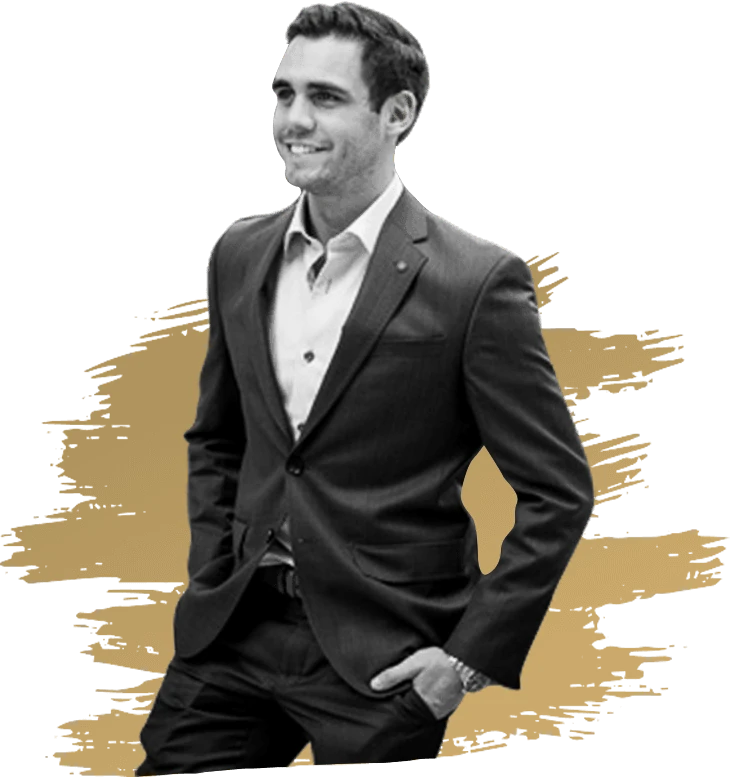
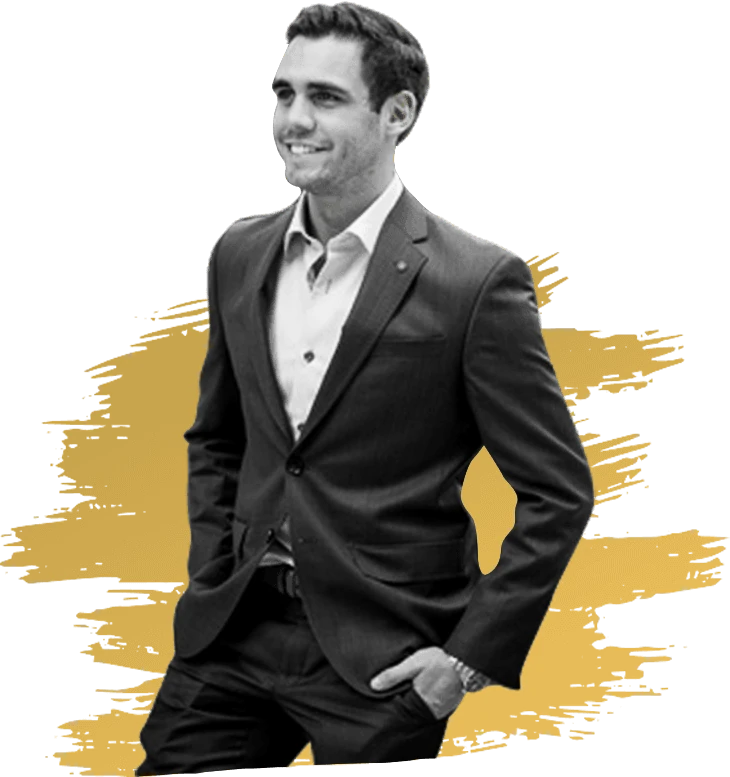
Flatten gold, brighten paper and gold, add a separate signal colour token
Removes the metallic gradients, moves the light sections to a near-white
paper, uses a cleaner gold on screen, and routes the announcement strip
and primary buttons through --color-signal (gold until an accent is chosen).

Claude-Session: https://claude.ai/code/session_01MrJZnTWZ3xpZ6LwmfcK68F

diff --git a/app/hallmark.css b/app/hallmark.css
@@ -1,5 +1,5 @@
 /* Hallmark · shape: Index-First · genre: editorial · theme: brand · redesign: full · job: attend, the free webinar in the announcement and the hero
- * paper: oklch(96.8% 0.009 85) · accent: oklch(74% 0.087 82) · display: League Spartan · body: Figtree · hero: Stage (/) · nav: slab · footer: mast · signature: Luis cut out on the black field against a gold brush, standing on the lesson topics
+ * paper: oklch(98.6% 0.004 85) · accent: oklch(80% 0.125 86) · display: League Spartan · body: Figtree · hero: Stage (/) · nav: slab · footer: mast · signature: Luis cut out on the black field against a gold brush, standing on the lesson topics
  * axes: ivory and black/heavy uppercase grotesk/muted gold · posture: committed, black field with one gold band · contrast: pass · fold: pass · v2.0.0 */
 /* Hallmark · pre-emit critique: P4 H4 E4 S4 R3 V4 · weakest: R, the gold wanted to be everywhere; kept it to the announcement, the primary action, the brush and one closing band */
 /* Hallmark · reworded "put modern tools—including AI and automation—to work" to "put modern tools, including AI and automation, to work" · 19 names the dashes */
@@ -21,13 +21,13 @@
 @import url("./base.css");
 
 /* Controls */
-.hm-btn { display: inline-flex; align-items: center; justify-content: center; gap: var(--space-xs); min-height: 52px; padding: 0 var(--space-xl); border: 1px solid var(--color-accent); border-radius: var(--radius-pill); background: linear-gradient(180deg, var(--color-accent-2), var(--color-accent)); color: var(--color-accent-ink); font: 800 var(--text-md)/1 var(--font-body); letter-spacing: 0.03em; text-transform: uppercase; white-space: nowrap; cursor: pointer; transition: background-color var(--dur-short) var(--ease-out), border-color var(--dur-short) var(--ease-out), color var(--dur-short) var(--ease-out), transform var(--dur-micro) var(--ease-out); }
-.hm-btn:hover { background: var(--color-accent-2); border-color: var(--color-accent-2); }
+.hm-btn { display: inline-flex; align-items: center; justify-content: center; gap: var(--space-xs); min-height: 52px; padding: 0 var(--space-xl); border: 1px solid var(--color-signal); border-radius: var(--radius-pill); background: var(--color-signal); color: var(--color-signal-ink); font: 800 var(--text-md)/1 var(--font-body); letter-spacing: 0.03em; text-transform: uppercase; white-space: nowrap; cursor: pointer; transition: background-color var(--dur-short) var(--ease-out), border-color var(--dur-short) var(--ease-out), color var(--dur-short) var(--ease-out), transform var(--dur-micro) var(--ease-out); }
+.hm-btn:hover { background: var(--color-signal-2); border-color: var(--color-signal-2); }
 .hm-btn:active { transform: translateY(1px); }
 .hm-btn:focus-visible { outline: 2px solid var(--color-focus); outline-offset: 3px; }
 .hm-btn[aria-disabled="true"] { opacity: 0.55; cursor: not-allowed; transform: none; }
 .hm-btn--line { background: transparent; color: var(--color-ink); border-color: var(--color-accent-deep); }
-.hm-btn--line:hover { background: var(--color-accent); border-color: var(--color-accent); color: var(--color-accent-ink); }
+.hm-btn--line:hover { background: var(--color-signal); border-color: var(--color-signal); color: var(--color-signal-ink); }
 .hm-btn--ink { background: var(--color-night); border-color: var(--color-night); color: var(--color-on-night); }
 .hm-btn--ink:hover { background: var(--color-night-3); border-color: var(--color-night-3); }
 .hm-link { display: inline-block; font-weight: 600; text-decoration: underline; text-decoration-color: var(--color-accent-deep); text-decoration-thickness: 2px; text-underline-offset: 0.4em; transition: text-decoration-color var(--dur-short) var(--ease-out); }
@@ -54,14 +54,14 @@
 }
 
 /* The announcement */
-.hm-announce { background: linear-gradient(90deg, var(--color-accent), var(--color-accent-2) 50%, var(--color-accent)); text-align: center; }
+.hm-announce { text-align: center; }
 .hm-announce a { display: block; padding-block: var(--space-sm); line-height: 1.3; text-decoration: underline; text-decoration-color: transparent; text-underline-offset: 0.3em; transition: text-decoration-color var(--dur-short) var(--ease-out); }
 .hm .hm-announce a:hover { text-decoration: underline; text-decoration-color: var(--color-ink); }
 .hm-announce strong { font-weight: 800; }
 
 /* Hero: Stage */
 .hm-home { background: var(--color-paper); color: var(--color-ink); }
-.hm-hero { background: linear-gradient(180deg, var(--color-night-2), var(--color-night) 62%); }
+.hm-hero { background: var(--color-night); }
 .hm-hero-grid { display: grid; grid-template-columns: minmax(0, 7fr) minmax(0, 5fr); grid-template-rows: minmax(0, 1fr); column-gap: var(--space-2xl); align-items: center; height: clamp(500px, calc(100dvh - 248px), 700px); }
 .hm-hero-copy { display: grid; gap: var(--space-lg); justify-items: start; padding-block: var(--space-xl); }
 .hm-hero-copy .hm-lead { max-width: 46ch; }
@@ -77,7 +77,7 @@
 .hm-topics-row { display: grid; grid-template-columns: minmax(0, 1.25fr) repeat(6, minmax(0, 1fr)); align-items: stretch; }
 .hm-topics-row > span { align-self: center; max-width: 16ch; font-size: var(--text-sm); line-height: 1.35; color: var(--color-ink-2); }
 .hm-topics-row > a { display: flex; align-items: center; min-height: 96px; padding: var(--space-md); border-left: var(--rule-hair) solid var(--color-accent-deep); white-space: nowrap; font: 800 clamp(0.875rem, 1.15vw, 1.0625rem)/1.05 var(--font-display); text-transform: uppercase; color: var(--color-ink); transition: background-color var(--dur-short) var(--ease-out), color var(--dur-short) var(--ease-out); }
-.hm-topics-row > a:hover { background: var(--color-night-3); color: var(--color-accent); }
+.hm-topics-row > a:hover { background: var(--color-night-3); color: var(--color-signal); }
 
 /* Sections */
 .hm-section { padding-block: var(--section-gap); }
@@ -95,7 +95,7 @@
 .hm-rows .hm-link { justify-self: end; text-align: right; }
 
 /* The lesson: a black band */
-.hm-lesson { background: linear-gradient(180deg, var(--color-night), var(--color-night-2)); }
+.hm-lesson { background: var(--color-night); }
 .hm-lesson-grid { display: grid; grid-template-columns: minmax(0, 8fr) minmax(0, 4fr); column-gap: var(--space-2xl); row-gap: var(--space-xl); align-items: center; }
 .hm-lesson-video .video-frame { border-radius: var(--radius-card); overflow: hidden; outline: var(--rule-hair) solid var(--color-rule); }
 .hm-lesson-video .video-shade { display: none; }
@@ -109,7 +109,7 @@
 .hm-guides { background: var(--color-paper-2); }
 .hm-guides-grid { display: grid; grid-template-columns: minmax(0, 5fr) minmax(0, 7fr); column-gap: var(--space-3xl); row-gap: var(--space-2xl); align-items: center; }
 .hm-guide-cover { position: relative; display: grid; justify-items: center; gap: var(--space-lg); padding-block: var(--space-xl); isolation: isolate; }
-.hm-guide-cover::before { content: ""; position: absolute; z-index: -1; top: 50%; left: 50%; width: min(88%, 480px); aspect-ratio: 1; border-radius: 50%; background: linear-gradient(150deg, var(--color-accent-2), var(--color-accent) 55%, var(--color-accent-deep)); transform: translate(-50%, -56%); }
+.hm-guide-cover::before { content: ""; position: absolute; z-index: -1; top: 50%; left: 50%; width: min(88%, 480px); aspect-ratio: 1; border-radius: 50%; background: var(--color-accent); transform: translate(-50%, -56%); }
 .hm-guide-cover img { width: 58%; border-radius: var(--radius-card); box-shadow: var(--shadow-card); transform: rotate(-3deg); }
 .hm-guide-cover:hover span { text-decoration: underline; text-underline-offset: 0.3em; }
 .hm-guide-cover span { font-size: var(--text-sm); font-weight: 600; }
@@ -136,7 +136,6 @@
 .hm-post-meta span:first-child { font-weight: 600; color: var(--color-accent-deep); }
 
 /* Community: the one gold band */
-.hm-community { background: linear-gradient(120deg, var(--color-accent-2), var(--color-accent) 58%); }
 .hm-community-grid { display: grid; grid-template-columns: minmax(0, 8fr) minmax(0, 4fr); column-gap: var(--space-2xl); row-gap: var(--space-xl); align-items: center; }
 .hm-community h2 { font-size: var(--text-display-s); margin-bottom: var(--space-md); }
 .hm-community .hm-lead { color: var(--color-ink); }

diff --git a/app/tokens.css b/app/tokens.css
@@ -9,12 +9,12 @@
   --color-error: oklch(52% 0.19 27); --color-success: oklch(50% 0.12 150);
   --container: 1440px; --gutter: 64px; --gap-columns: 32px; --section-gap-s: 120px; --section-gap: 144px; --section-gap-l: 176px;
   --z-base: 1; --z-raised: 10; --z-dropdown: 100; --z-sticky: 200; --z-sticky-nav: 300; --z-modal: 400; --z-toast: 500; --z-tooltip: 600;
-  --color-paper: var(--brand-ivory); --color-paper-2: oklch(93.6% 0.014 84); --color-paper-3: oklch(90.4% 0.018 83);
+  --color-paper: oklch(98.6% 0.004 85); --color-paper-2: oklch(95.6% 0.006 85); --color-paper-3: oklch(92.6% 0.008 85);
   --color-ink: var(--brand-black); --color-ink-2: oklch(36% 0.008 75); --color-muted: var(--brand-muted);
-  --color-rule: var(--brand-border);
-  --color-accent: var(--brand-gold); --color-accent-2: var(--brand-gold-hover); --color-accent-deep: var(--brand-gold-ink); --color-accent-ink: var(--brand-black); --color-focus: var(--brand-gold-ink);
+  --color-rule: oklch(87% 0.008 85);
+  --color-accent: oklch(80% 0.125 86); --color-accent-2: oklch(86% 0.11 88); --color-signal: var(--color-accent); --color-signal-2: var(--color-accent-2); --color-signal-ink: var(--brand-black); --color-accent-deep: var(--brand-gold-ink); --color-accent-ink: var(--brand-black); --color-focus: var(--brand-gold-ink);
   --color-night: var(--brand-black); --color-night-2: var(--brand-charcoal); --color-night-3: oklch(33% 0.007 70); --color-night-rule: oklch(40% 0.008 72);
-  --color-on-night: var(--brand-ivory); --color-on-night-2: oklch(82% 0.014 84);
+  --color-on-night: oklch(98.6% 0.004 85); --color-on-night-2: oklch(82% 0.008 85);
   --font-display: "League Spartan", "Arial Black", ui-sans-serif, system-ui, sans-serif; --font-body: "Figtree", ui-sans-serif, system-ui, sans-serif; --font-outlier: var(--font-body);
   --font-geist-sans: "Figtree";
   --radius-card: 6px; --radius-pill: 999px; --rule-hair: 1px; --shadow-card: 0 18px 40px oklch(20% 0.01 80 / 0.18);
@@ -26,7 +26,9 @@
   --ease-out: cubic-bezier(0.16, 1, 0.3, 1); --ease-in: cubic-bezier(0.7, 0, 0.84, 0); --ease-in-out: cubic-bezier(0.65, 0, 0.35, 1);
 }
 /* A dark surface swaps the whole ink family in one block. */
-.hm-night { --color-paper: var(--color-night); --color-paper-2: var(--color-night-2); --color-paper-3: var(--color-night-3); --color-ink: var(--color-on-night); --color-ink-2: var(--color-on-night-2); --color-muted: var(--color-on-night-2); --color-rule: var(--color-night-rule); --color-focus: var(--brand-gold-hover); --color-accent-deep: var(--brand-gold); background: var(--color-paper); color: var(--color-ink); }
-.hm-gold { --color-paper: var(--brand-gold); --color-ink: var(--brand-black); --color-ink-2: var(--brand-black); --color-muted: var(--brand-black); --color-rule: oklch(51.7% 0.084 82 / 0.5); --color-focus: var(--brand-black); background: var(--color-paper); color: var(--color-ink); }
+.hm-night { --color-paper: var(--color-night); --color-paper-2: var(--color-night-2); --color-paper-3: var(--color-night-3); --color-ink: var(--color-on-night); --color-ink-2: var(--color-on-night-2); --color-muted: var(--color-on-night-2); --color-rule: var(--color-night-rule); --color-focus: var(--brand-gold-hover); --color-accent-deep: var(--color-accent); background: var(--color-paper); color: var(--color-ink); }
+.hm-gold { --color-paper: var(--color-accent); --color-ink: var(--brand-black); --color-ink-2: var(--brand-black); --color-muted: var(--brand-black); --color-rule: oklch(51.7% 0.084 82 / 0.5); --color-focus: var(--brand-black); background: var(--color-paper); color: var(--color-ink); }
 @media (max-width: 60rem) { :root { --gutter: 24px; --section-gap-s: 80px; --section-gap: 96px; --section-gap-l: 120px; --nav-height: 68px; } }
 @media (max-width: 40rem) { :root { --gutter: 16px; --section-gap-s: 56px; --section-gap: 72px; --section-gap-l: 96px; --gap-columns: 16px; } }
+/* The announcement strip and primary actions take the signal colour. */
+.hm-signal { --color-ink: var(--color-signal-ink); --color-focus: var(--color-signal-ink); background: var(--color-signal); color: var(--color-signal-ink); }

diff --git a/app/page.tsx b/app/page.tsx
@@ -36,7 +36,7 @@ export default function Home() {
   const [leadPost, ...morePosts] = posts.slice(0, 3);
   return (
     <main id="main" className="hm hm-home">
-      <div className="hm-gold hm-announce">
+      <div className="hm-signal hm-announce">
         <p className="hm-wrap">
           <Link href={freeTrainingUrl}>
             <strong>Free webinar with Luis Uribe.</strong> Access the free
